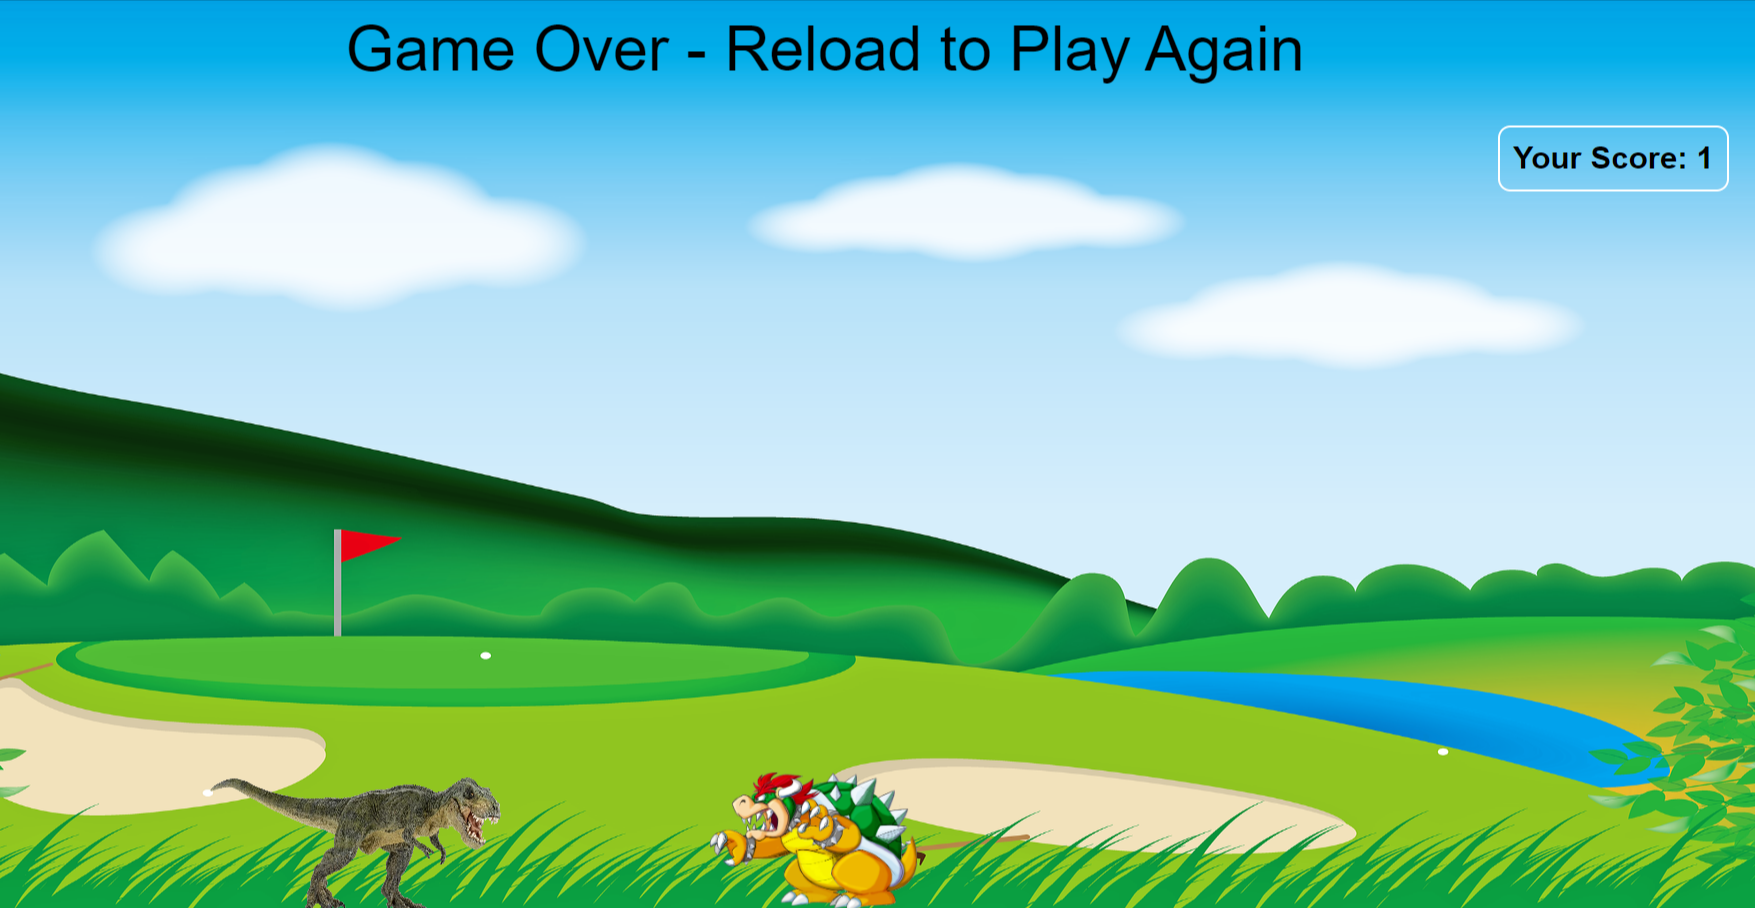
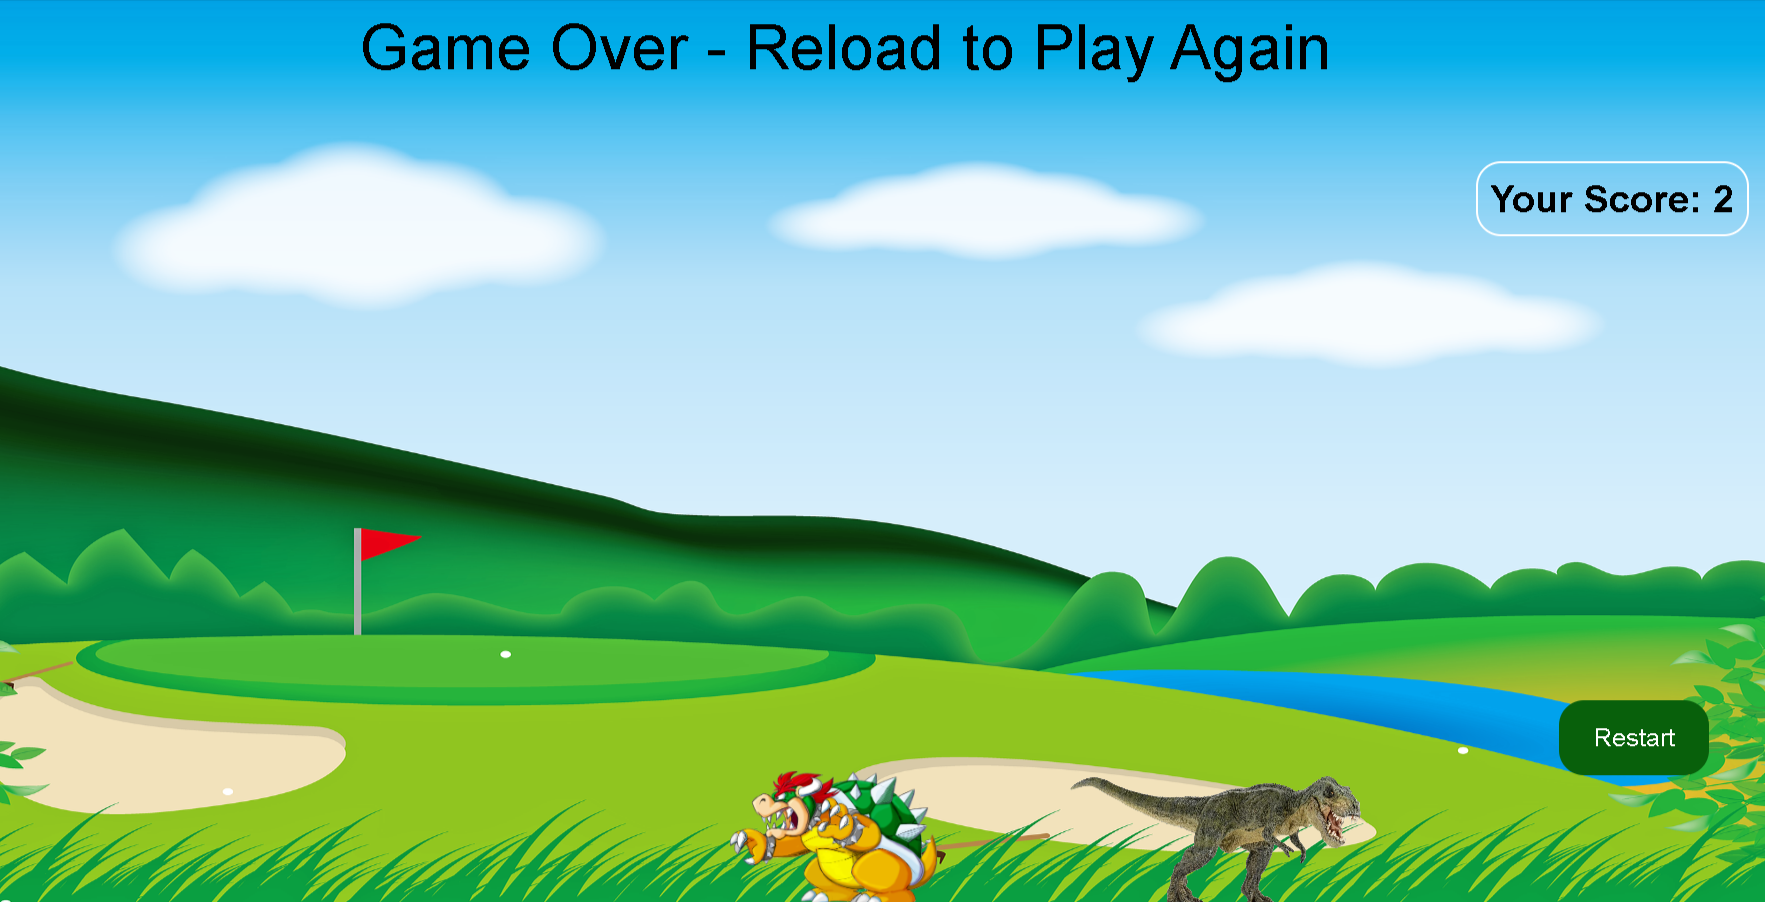
Add Restart Button

diff --git a/script.js b/script.js
@@ -1,31 +1,31 @@
-score = 0;
-cross = true;
+score = 0; // Variable to store the score
+cross = true; // Variable to track if the dino has crossed the obstacle
 
-audio = new Audio('music.mp3');
-audiogo = new Audio('gameover.mp3');
+audio = new Audio('music.mp3'); // Creating an audio object for background music
+audiogo = new Audio('gameover.mp3'); // Creating an audio object for game over sound
 
 setTimeout(() => {
-    audio.play()
+    audio.play() // Start playing the background music after 1 second
 }, 1000);
 
 document.onkeydown = function (e) {
-    console.log("Key code is: ", e.keyCode)
+    console.log("Key code is: ", e.keyCode) // Logging the key code when a key is pressed
     if (e.keyCode == 38) {
         dino = document.querySelector('.dino');
-        dino.classList.add('animateDino');
+        dino.classList.add('animateDino'); // Adding the 'animateDino' class to the dino element
         setTimeout(() => {
-            dino.classList.remove('animateDino')
+            dino.classList.remove('animateDino') // Removing the 'animateDino' class after 700 milliseconds
         }, 700);
     }
     if (e.keyCode == 39) {
         dino = document.querySelector('.dino');
         dinoX = parseInt(window.getComputedStyle(dino, null).getPropertyValue('left'));
-        dino.style.left = dinoX + 112 + "px";
+        dino.style.left = dinoX + 112 + "px"; // Moving the dino to the right
     }
     if (e.keyCode == 37) {
         dino = document.querySelector('.dino');
         dinoX = parseInt(window.getComputedStyle(dino, null).getPropertyValue('left'));
-        dino.style.left = (dinoX - 112) + "px";
+        dino.style.left = (dinoX - 112) + "px"; // Moving the dino to the left
     }
 }
 
@@ -45,15 +45,15 @@ setInterval(() => {
 
     if (offsetX < 73 && offsetY < 52) {
         gameOver.innerHTML = "Game Over - Reload to Play Again"
-        obstacle.classList.remove('obstacleAni')
-        audiogo.play();
+        obstacle.classList.remove('obstacleAni') // Removing the 'obstacleAni' class to stop the obstacle animation
+        audiogo.play(); // Playing the game over sound
         setTimeout(() => {
             audiogo.pause();
-            audio.pause();
+            audio.pause(); // Pausing the background music after 1 second
         }, 1000);
     }
     else if (offsetX < 145 && cross) {
-        score += 1;
+        score += 1; //Increasing the score by 1
         updateScore(score);
         cross = false;
         setTimeout(() => {
@@ -61,7 +61,7 @@ setInterval(() => {
         }, 1000);
         setTimeout(() => {
             aniDur = parseFloat(window.getComputedStyle(obstacle, null).getPropertyValue('animation-duration'));
-            newDur = aniDur - 0.1;
+            newDur = aniDur - 0.1; // Reducing the animation duration of the obstacle
             obstacle.style.animationDuration = newDur + 's';
             console.log('New animation duration: ', newDur)
         }, 500);
@@ -71,5 +71,8 @@ setInterval(() => {
 }, 10);
 
 function updateScore(score) {
-    scoreCont.innerHTML = "Your Score: " + score
+    scoreCont.innerHTML = "Your Score: " + score // Updating the score in the HTML
+}
+function restartGame() {
+    location.reload(); // Reloads the page to restart the game
 }

diff --git a/style.css b/style.css
@@ -51,18 +51,30 @@ body{
     font-family: 'Montserrat', sans-serif;
 }
 
-#scoreCont{
+#scoreCont {
     font-size: 25px;
     font-weight: bold;
     position: absolute;
     right: 45px;
-    top: 130px;
+    top: 150px;
     border: 2px solid white;
     padding: 10px;
-    font-family: 'Montserrat', sans-serif;
-    border-radius: 10px;
-
-}
+    font-family: "Montserrat", sans-serif;
+    border-radius: 20px;
+  }
+  
+.restartButton {
+    display: flex;
+    justify-content: center;
+    align-items: center;
+    position: fixed;
+    background-color: #08600b;
+    color: white;
+    border: none;
+    border-radius: 20px;
+    font-size: 14px;
+    cursor: pointer;
+  }
 
 
 @keyframes dino{
@@ -83,5 +95,105 @@ body{
     }
     100%{
         left: -10vw;
+    }
+}
+
+/* Mobile S */
+@media only screen and (max-width: 320px) {
+    .gameOver {
+        font-size: 24px;
+    }
+
+    #scoreCont {
+        font-size: 16px;
+        top: 120px;
+    }
+
+    .restartButton {
+        bottom: 15%;
+        right: 5%;
+        width: 60px;
+        height: 30px;
+        font-size: 12px;
+    }
+}
+
+/* Mobile M */
+@media only screen and (min-width: 375px) {
+    .gameOver {
+        font-size: 28px;
+    }
+
+    #scoreCont {
+        font-size: 20px;
+        top: 130px;
+    }
+
+    .restartButton {
+        bottom: 15%;
+        right: 5%;
+        width: 70px;
+        height: 35px;
+        font-size: 14px;
+    }
+}
+
+/* Mobile L */
+@media only screen and (min-width: 425px) {
+    .gameOver {
+        font-size: 32px;
+    }
+
+    #scoreCont {
+        font-size: 22px;
+        top: 140px;
+    }
+
+    .restartButton {
+        bottom: 15%;
+        right: 5%;
+        width: 80px;
+        height: 40px;
+        font-size: 16px;
+    }
+}
+
+/* Tablet */
+@media only screen and (min-width: 768px) {
+    .gameOver {
+        font-size: 40px;
+    }
+
+    #scoreCont {
+        font-size: 25px;
+        top: 150px;
+    }
+
+    .restartButton {
+        bottom: 15%;
+        right: 5%;
+        width: 100px;
+        height: 50px;
+        font-size: 18px;
+    }
+}
+
+/* Laptop */
+@media only screen and (min-width: 1024px) {
+    .gameOver {
+        font-size: 50px;
+    }
+
+    #scoreCont {
+        font-size: 30px;
+        top: 160px;
+    }
+
+    .restartButton {
+        bottom: 15%;
+        right: 5%;
+        width: 120px;
+        height: 60px;
+        font-size: 20px;
     }
 }

diff --git a/index.html b/index.html
@@ -4,16 +4,18 @@
     <meta charset="UTF-8">
     <meta name="viewport" content="width=device-width, initial-scale=1.0">
     <title>Dino Game</title>
-    <link href="https://fonts.googleapis.com/css2?family=Ubuntu:wght@300&display=swap" rel="stylesheet">
-    <link rel="stylesheet" href="style.css">
-    <script src="script.js"></script>
+    <link href="https://fonts.googleapis.com/css2?family=Ubuntu:wght@300&display=swap" rel="stylesheet"> <!-- Link to Google Fonts -->
+    <link rel="stylesheet" href="style.css"> <!-- Link to external CSS file -->
+
 </head>
 <body>
     <div class="gameContainer">
-        <div class="gameOver">Welcome to Dino Adventure</div>
-        <div class="dino"></div>
-        <div id="scoreCont">Your Score: 0</div>
-        <div class="obstacle obstacleAni"></div>
+        <div class="gameOver">Welcome to Dino Adventure</div> <!-- Element to display game over message -->
+        <div class="dino"></div> <!-- Element for displaying the dinosaur character -->
+        <div id="scoreCont">Your Score: 0</div> <!-- Element to display the score -->
+        <button class="restartButton" onclick="restartGame()">Restart</button> <!-- Restart button -->
+        <div class="obstacle obstacleAni"></div> <!-- Element for displaying the obstacles with animation -->
     </div>
+    <script src="script.js"></script> <!-- Link to external JavaScript file -->
 </body>
 </html>
